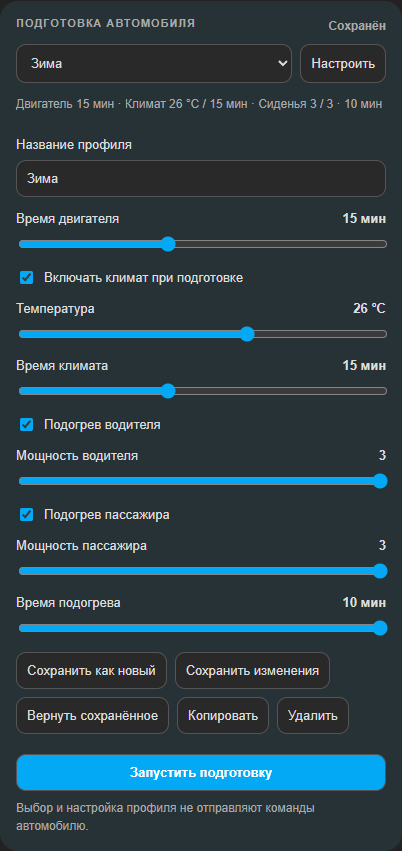
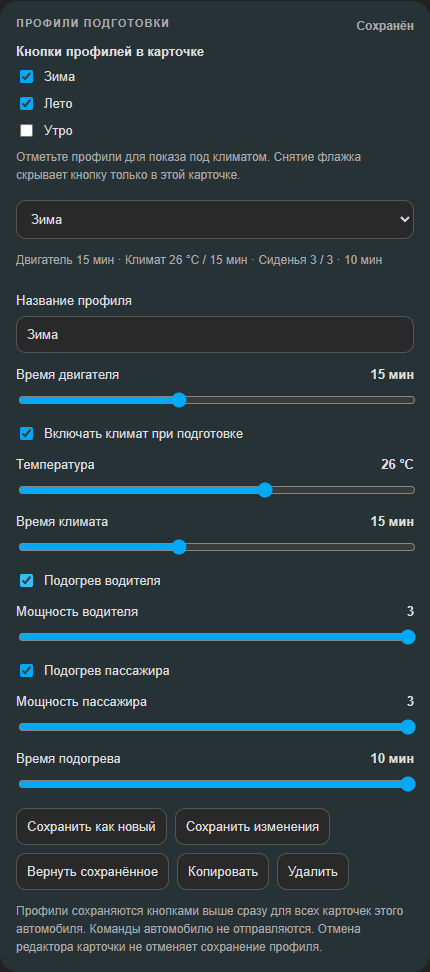
0.1.0-beta.4: profile buttons and streamlined card editor

diff --git a/custom_components/gwm_jolion/frontend/gwm-jolion-remote-card.js b/custom_components/gwm_jolion/frontend/gwm-jolion-remote-card.js
@@ -4,7 +4,7 @@
  * See LICENSE.starline and THIRD_PARTY_NOTICES.md in this directory.
  */
 (() => {
-  const CARD_VERSION = "0.1.0-beta.3";
+  const CARD_VERSION = "0.1.0-beta.4";
[1 lines of base64/hex data omitted]
   const INTEGRATION = "gwm_jolion";
   const DEFAULT_CONTROLS = ["engine", "lock", "climate", "trunk", "refresh", "seat_heating"];

diff --git a/custom_components/gwm_jolion/frontend/gwm-jolion-card.js b/custom_components/gwm_jolion/frontend/gwm-jolion-card.js
@@ -1,6 +1,6 @@
-/* GWM Jolion Card v0.1.0-beta.3 */
+/* GWM Jolion Card v0.1.0-beta.4 */
 (() => {
-  const CARD_VERSION = "0.1.0-beta.3";
+  const CARD_VERSION = "0.1.0-beta.4";
   const INTEGRATION = "gwm_jolion";
 
   const SUFFIX = {
@@ -82,6 +82,7 @@
         this._engineRuntime = Math.min(30, Math.max(5, configuredRuntime));
       }
       this._resolvedKey = null;
+      this._settingsToken = null;
       if (this._hass) this._resolveEntities();
       this._render();
     }
@@ -431,7 +432,6 @@
         this._comfortStart = false;
         this._climateEnabled = true;
         this._selectedProfile = "";
-        this._profileEditor = false;
         this._profileNameDraft = null;
         this._comfortTemperature = undefined;
         this._comfortRuntime = undefined;
@@ -480,6 +480,11 @@
 
     _profiles() { return this._state("refresh")?.attributes?.preparation_profiles || []; }
 
+    _visibleProfiles() {
+      const ids = this._config.visible_profiles;
+      return this._profiles().filter(profile => !Array.isArray(ids) || ids.includes(profile.id));
+    }
+
     _profileSummary() {
       const d = this._profileDraft();
       const seat = key => this._featureEnabled(`seat_heat_${key}`) ? (d[`${key}_enabled`] ? d[key] : "выкл") : "нет";
@@ -502,13 +507,14 @@
       const d = this._profileDraft();
       const range = (key,label,min,max,unit="") => `<label class="profile-field"><span>${label}<b>${d[key]}${unit}</b></span><input aria-label="Профиль: ${label}" data-profile-field="${key}" type="range" min="${min}" max="${max}" step="1" value="${d[key]}"></label>`;
       const check = (key,label) => `<label class="profile-check"><input data-profile-field="${key}" type="checkbox" ${d[key] ? "checked" : ""}>${label}</label>`;
-      const busy = this._busy.has("profiles");
+      const busy = this._busy.has("profiles") || !this._entryId || this._resolving;
       return `<div class="section preparation">
-        <div class="section-title">Подготовка автомобиля <small data-profile-status></small></div>
+        <div class="section-title">${this._profileEditorHost ? "Профили подготовки" : "Подготовка автомобиля"} <small data-profile-status></small></div>
         <fieldset ${busy ? "disabled" : ""}>
-          <div class="profile-toolbar"><select aria-label="Профиль подготовки" id="profile-select"><option value="">Текущие настройки</option>${profiles.map(p => `<option value="${this._escape(p.id)}" ${p.id === this._selectedProfile ? "selected" : ""}>${this._escape(p.name)}</option>`).join("")}</select><button type="button" id="profile-configure" aria-expanded="${!!this._profileEditor}">Настроить</button></div>
+          ${this._profileEditorHost ? `<div class="profile-visibility"><b>Кнопки профилей в карточке</b>${profiles.map(p => `<label class="profile-check"><input type="checkbox" data-profile-visible="${this._escape(p.id)}" ${this._visibleProfiles().some(visible => visible.id === p.id) ? "checked" : ""}>${this._escape(p.name)}</label>`).join("")}<small>Отметьте профили для показа под климатом. Снятие флажка скрывает кнопку только в этой карточке.</small></div>
+          <div class="profile-toolbar"><select aria-label="Профиль подготовки" id="profile-select"><option value="">Текущие настройки</option>${profiles.map(p => `<option value="${this._escape(p.id)}" ${p.id === this._selectedProfile ? "selected" : ""}>${this._escape(p.name)}</option>`).join("")}</select></div>` : `<div class="profile-choices" role="group" aria-label="Профили подготовки">${this._visibleProfiles().map(p => `<button type="button" data-profile-choice="${this._escape(p.id)}" aria-pressed="${p.id === this._selectedProfile}" class="profile-choice ${p.id === this._selectedProfile ? "selected" : ""}">${this._escape(p.name)}</button>`).join("")}</div>`}
           <p data-profile-summary></p>
-          ${this._profileEditor ? `<div class="profile-editor">
+          ${this._profileEditorHost ? `<div class="profile-editor">
             <label class="profile-field">Название профиля<input id="profile-name" maxlength="40" value="${this._escape(this._profileNameDraft ?? selected?.name ?? "")}" placeholder="Например, Зима"></label>
             ${range("engine_time","Время двигателя",5,30," мин")}
             ${check("climate_enabled","Включать климат при подготовке")}
@@ -519,8 +525,8 @@
             ${selected ? `<button type="button" data-profile-operation="update">Сохранить изменения</button><button type="button" data-profile-operation="select">Вернуть сохранённое</button><button type="button" data-profile-operation="copy" ${profiles.length >= 20 ? "disabled" : ""}>Копировать</button><button type="button" data-profile-operation="delete">Удалить</button>` : ""}</div>
           </div>` : ""}
         </fieldset>
-        <button type="button" id="preparation-start" ${!this._entryId || this._busy.size || this._remoteCommandInProgress() || this._isUnavailable("engine") || this._isOn("engine") ? "disabled" : ""}>${this._busy.has("preparation") ? "Подготовка…" : "Запустить подготовку"}</button>
-        <small>Выбор и настройка профиля не отправляют команды автомобилю.</small>
+        ${this._profileEditorHost ? "" : `<button type="button" id="preparation-start" ${!this._entryId || this._busy.size || this._remoteCommandInProgress() || this._isUnavailable("engine") || this._isOn("engine") ? "disabled" : ""}>${this._busy.has("preparation") ? "Подготовка…" : "Запустить подготовку"}</button>`}
+        <small>${this._profileEditorHost ? "Профили сохраняются кнопками выше сразу для всех карточек этого автомобиля. Команды автомобилю не отправляются. Отмена редактора карточки не отменяет сохранение профиля." : "Редактирование профилей — в настройках карточки."}</small>
       </div>`;
     }
 
@@ -933,6 +939,12 @@
           .profile-field input { width:100%; min-width:0; }
           .profile-check { display:flex; align-items:center; gap:8px; font-size:13px; }
           .profile-buttons { display:flex; flex-wrap:wrap; gap:8px; }
+          .profile-choices { display:flex; flex-wrap:wrap; gap:8px; }
+          .preparation .profile-choice { flex:1 1 auto; min-width:72px; max-width:100%; overflow-wrap:anywhere; transition:background-color .15s, border-color .15s; }
+          .preparation .profile-choice.selected { border-color:var(--primary-color,#03a9f4); background:color-mix(in srgb,var(--primary-color,#03a9f4) 22%,var(--card-background-color,#303539)); box-shadow:inset 0 0 0 1px var(--primary-color,#03a9f4); font-weight:700; }
+          .profile-visibility { display:grid; gap:8px; padding-bottom:16px; font-size:13px; }
+          .profile-choice:focus-visible { outline:2px solid var(--primary-color,#03a9f4); outline-offset:3px; }
+          @media (prefers-reduced-motion:reduce) { .preparation .profile-choice { transition:none; } }
           #preparation-start { display:block; width:100%; margin:8px 0; background:var(--primary-color,#03a9f4); color:var(--text-primary-color,#fff); font-weight:600; }
           @media (max-width:600px) {
             .wrap { padding:14px; }
@@ -946,7 +958,7 @@
           }
         </style>
 
-        <ha-card>
+        ${this._profileEditorHost ? this._profilePanel() : `<ha-card>
           <div class="wrap">
             <div class="header">
               <div class="title">
@@ -983,7 +995,6 @@
                 : ""
             }
 
-            ${this._profilePanel()}
             <div class="section">
               <div class="section-title">Управление</div>
               <div class="controls">
@@ -1127,6 +1138,7 @@
               </div>
             </div>
 
+            ${this._profilePanel()}
             <div class="section">
               <div class="section-title">Шины</div>
               <div class="tires">
@@ -1163,7 +1175,7 @@
               </div>
             </div>
           </div>
-        </ha-card>`;
+        </ha-card>`}`;
 
       this._bindActions();
     }
@@ -1200,7 +1212,12 @@
     _bindActions() {
       this._updateProfileSummary();
       this.shadowRoot.getElementById("profile-select")?.addEventListener("change", event => this._manageProfile("select",event.target.value));
-      this.shadowRoot.getElementById("profile-configure")?.addEventListener("click", () => {this._profileEditor = !this._profileEditor; this._render();});
+      this.shadowRoot.querySelectorAll("[data-profile-choice]").forEach(button => button.addEventListener("click", () => this._manageProfile("select",button.dataset.profileChoice)));
+      this.shadowRoot.querySelectorAll("[data-profile-visible]").forEach(input => input.addEventListener("change", () => {
+        const visible = new Set(this._visibleProfiles().map(profile => profile.id));
+        if (input.checked) visible.add(input.dataset.profileVisible); else visible.delete(input.dataset.profileVisible);
+        this.dispatchEvent(new CustomEvent("profile-visibility-changed", {detail:{profiles:[...visible]},bubbles:true,composed:true}));
+      }));
       this.shadowRoot.getElementById("profile-name")?.addEventListener("input", event => {this._profileNameDraft = event.target.value; this._updateProfileSummary();});
       this.shadowRoot.querySelectorAll("[data-profile-operation]").forEach(button => button.addEventListener("click", () => this._manageProfile(button.dataset.profileOperation)));
       this.shadowRoot.querySelectorAll("[data-profile-field]").forEach(input => {

diff --git a/custom_components/gwm_jolion/frontend/gwm-jolion-card-editor.js b/custom_components/gwm_jolion/frontend/gwm-jolion-card-editor.js
@@ -1,6 +1,6 @@
-/* GWM Jolion primary card visual editor v0.1.0-alpha.17 */
+/* GWM Jolion primary card visual editor v0.1.0-beta.4 */
 (() => {
-  const CARD_VERSION = "0.1.0-alpha.17";
+  const CARD_VERSION = "0.1.0-beta.4";
 
   const CONTROL_OPTIONS = [
     ["engine", "Двигатель"],
@@ -9,11 +9,6 @@
     ["windows", "Окна"],
     ["climate", "Климат / кондиционер"],
     ["refresh", "Обновить данные"],
-    ["steering", "Обогрев руля"],
-    ["rear_defrost", "Обогрев заднего стекла"],
-    ["front_defrost", "Передний defrost / обдув лобового"],
-    ["sunroof", "Панорамная крыша / люк"],
-    ["sunshade", "Шторка панорамной крыши"],
   ];
 
   const INFO_OPTIONS = [
@@ -32,7 +27,6 @@
     ["last_update", "Время последнего обновления"],
     ["seat_driver", "Подогрев сиденья водителя"],
     ["seat_passenger", "Подогрев сиденья пассажира"],
-    ["windscreen_heat", "Электрообогрев лобового — статус"],
   ];
 
   const DETAIL_OPTIONS = [
@@ -45,18 +39,9 @@
   const DEFAULT_INFO = INFO_OPTIONS.map(([value]) => value);
   const DEFAULT_DETAILS = DETAIL_OPTIONS.map(([value]) => value);
 
-  const FEATURE_BY_CONTROL = {
-    steering: "steering_wheel_heat",
-    rear_defrost: "rear_defrost",
-    front_defrost: "front_defrost",
-    sunroof: "sunroof",
-    sunshade: "sunshade",
-  };
-
   const FEATURE_BY_INFO = {
     seat_driver: "seat_heat_driver",
     seat_passenger: "seat_heat_passenger",
-    windscreen_heat: "front_windscreen_heat",
   };
 
   const escapeHtml = (value) => String(value ?? "")
@@ -76,6 +61,7 @@
 
     set hass(hass) {
       this._hass = hass;
+      this._syncProfileEditor();
     }
 
     setConfig(config) {
@@ -87,6 +73,11 @@
         engine_runtime: 15,
         ...config,
       };
+      for (const [key, supported] of [["controls", DEFAULT_CONTROLS], ["info", DEFAULT_INFO], ["details", DEFAULT_DETAILS]]) {
+        if (Array.isArray(this._config[key])) {
+          this._config[key] = this._config[key].filter(value => supported.includes(value));
+        }
+      }
       this._render();
     }
 
@@ -101,10 +92,42 @@
       return entity?.attributes || {};
     }
 
+    _syncProfileEditor() {
+      const mount = this.shadowRoot.querySelector("#preparation-profiles");
+      if (!mount) return;
+      if (!customElements.get("gwm-jolion-card")) {
+        if (!this._waitingForCard) {
+          this._waitingForCard = true;
+          customElements.whenDefined("gwm-jolion-card").then(() => {
+            this._waitingForCard = false;
+            this._syncProfileEditor();
+          });
+        }
+        return;
+      }
+      if (!this._profileEditor) {
+        this._profileEditor = document.createElement("gwm-jolion-card");
+        // Share vehicle resolution and profile storage with the dashboard card.
+        // This instance renders only profile settings, without vehicle controls.
+        this._profileEditor._profileEditorHost = true;
+        this._profileEditor.addEventListener("profile-visibility-changed", event => {
+          event.stopPropagation();
+          this._emit({...this._config, visible_profiles:event.detail.profiles});
+        });
+      }
+      const token = JSON.stringify(this._config);
+      if (token !== this._profileConfigToken) {
+        this._profileConfigToken = token;
+        this._profileEditor.setConfig(this._config);
+      }
+      if (this._hass) this._profileEditor.hass = this._hass;
+      if (this._profileEditor.parentElement !== mount) mount.append(this._profileEditor);
+    }
+
     _available(option, kind) {
       const flags = this._featureFlags();
       const capability = kind === "controls"
-        ? FEATURE_BY_CONTROL[option]
+        ? undefined
         : FEATURE_BY_INFO[option];
       if (!capability || !(capability in flags)) return true;
       return flags[capability] !== false;
@@ -191,11 +214,14 @@
             <input id="confirm-controls" type="checkbox" ${this._config.confirm_controls !== false ? "checked" : ""}>
             <span>Подтверждать удалённые команды</span>
           </label>
+          <div id="preparation-profiles"></div>
           ${this._renderGroup("Кнопки управления", "controls", CONTROL_OPTIONS)}
           ${this._renderGroup("Датчики и информация", "info", INFO_OPTIONS)}
           ${this._renderGroup("Дополнительные панели", "details", DETAIL_OPTIONS)}
           <div class="note">Настройки комплектации в GWM Jolion → Настроить имеют приоритет. Отсутствующее оборудование нельзя принудительно показать карточкой. Существующие карточки без этих параметров продолжают показывать полный прежний набор элементов.</div>
         </div>`;
+
+      this._syncProfileEditor();
 
       this.shadowRoot.querySelectorAll("[data-list]").forEach((input) => {
         input.addEventListener("change", () => this._toggleList(input.dataset.list, input.dataset.value, input.checked));

diff --git a/custom_components/gwm_jolion/frontend/gwm-jolion-alpha20.js b/custom_components/gwm_jolion/frontend/gwm-jolion-alpha20.js
@@ -1,6 +1,6 @@
 /* GWM Jolion alpha.20 entity-surface compatibility layer */
 (() => {
-  const VERSION = "0.1.0-beta.3";
+  const VERSION = "0.1.0-beta.4";
   const SAFE_CAPABILITIES = new Set([
     "seat_heat_driver",
     "seat_heat_passenger",

diff --git a/custom_components/gwm_jolion/__init__.py b/custom_components/gwm_jolion/__init__.py
@@ -42,22 +42,22 @@ FRONTEND_ASSETS = (
     (
         FRONTEND_DIR / "gwm-jolion-card-editor.js",
         "/gwm-jolion/gwm-jolion-card-editor.js",
-        "/gwm-jolion/gwm-jolion-card-editor.js?v=0.1.0-beta.3",
+        "/gwm-jolion/gwm-jolion-card-editor.js?v=0.1.0-beta.4",
     ),
     (
         FRONTEND_DIR / "gwm-jolion-card.js",
         "/gwm-jolion/gwm-jolion-card.js",
-        "/gwm-jolion/gwm-jolion-card.js?v=0.1.0-beta.3",
+        "/gwm-jolion/gwm-jolion-card.js?v=0.1.0-beta.4",
     ),
     (
         FRONTEND_DIR / "gwm-jolion-remote-card.js",
         "/gwm-jolion/gwm-jolion-remote-card.js",
-        "/gwm-jolion/gwm-jolion-remote-card.js?v=0.1.0-beta.3",
+        "/gwm-jolion/gwm-jolion-remote-card.js?v=0.1.0-beta.4",
     ),
     (
         FRONTEND_DIR / "gwm-jolion-alpha20.js",
         "/gwm-jolion/gwm-jolion-alpha20.js",
-        "/gwm-jolion/gwm-jolion-alpha20.js?v=0.1.0-beta.3",
+        "/gwm-jolion/gwm-jolion-alpha20.js?v=0.1.0-beta.4",
     ),
 )
 DATA_FRONTEND_REGISTERED = "_frontend_registered"

diff --git a/tests/test_entity_surface_alpha20.py b/tests/test_entity_surface_alpha20.py
@@ -104,11 +104,11 @@ def test_alpha20_frontend_uses_clean_entity_attributes() -> None:
     patch = (ROOT / "custom_components/gwm_jolion/frontend/gwm-jolion-alpha20.js").read_text(encoding="utf-8")
     init_source = (ROOT / "custom_components/gwm_jolion/__init__.py").read_text(encoding="utf-8")
 
-    assert 'const VERSION = "0.1.0-beta.3"' in patch
+    assert 'const VERSION = "0.1.0-beta.4"' in patch
     assert 'signal_level_raw' in patch
     assert 'feature_flags' in patch
     assert 'last_successful_update' in patch
     assert 'if (id === "windows") return ""' not in patch
     assert 'entities.windowFl = oldFr' in patch
     assert 'entities.windowFr = oldFl' in patch
-    assert 'gwm-jolion-alpha20.js?v=0.1.0-beta.3' in init_source
+    assert 'gwm-jolion-alpha20.js?v=0.1.0-beta.4' in init_source

diff --git a/tests/test_protocol_field_results_alpha19_7.py b/tests/test_protocol_field_results_alpha19_7.py
@@ -36,7 +36,7 @@ def test_high_beam_code_remains_candidate_not_confirmed() -> None:
 
 def test_const_keeps_raw_window_protocol_but_exposes_clean_binary_names() -> None:
     const = _load("gwm_const_alpha20", "custom_components/gwm_jolion/const.py")
-    assert const.VERSION == "0.1.0-beta.3"
+    assert const.VERSION == "0.1.0-beta.4"
     expected_raw = {
         "2210001": "Окно переднее левое (raw)",
         "2210002": "Окно переднее правое (raw)",

diff --git a/custom_components/gwm_jolion/const.py b/custom_components/gwm_jolion/const.py
@@ -6,7 +6,7 @@ from dataclasses import dataclass
 from enum import Enum
 
 DOMAIN = "gwm_jolion"
-VERSION = "0.1.0-beta.3"
+VERSION = "0.1.0-beta.4"
 PLATFORMS = ["button", "sensor", "binary_sensor", "device_tracker", "lock", "climate", "number"]
 
 CONF_PHONE = "phone"

diff --git a/README.md b/README.md
@@ -4,7 +4,7 @@
 
 Неофициальная интеграция для **Haval Jolion с российским GWM Cloud**: состояние автомобиля, удалённое управление и две встроенные карточки. Разрабатывается на Haval Jolion 2022 Premium.
 
-Версия **0.1.0-beta.3** · [Изменения](CHANGELOG.md) · [Планы](ROADMAP.md)
+Версия **0.1.0-beta.4** · [Изменения](CHANGELOG.md) · [Планы](ROADMAP.md)
 
 ## Возможности
 
@@ -31,12 +31,14 @@ type: custom:gwm-jolion-card
 
 В разделе климата выберите уровень каждого сиденья и таймер, затем нажмите **«Применить»**. Мощность 1–3 и таймер задаются ползунками. Переключатель рядом с названием выбирает, включить или выключить сиденье при применении. Показания автомобиля отображаются рядом с настройками.
 
-В блоке **«Подготовка автомобиля»** выберите профиль и нажмите **«Запустить подготовку»**. Доступны редактируемые шаблоны «Зима», «Лето» и «Только водитель».
+Под блоком **«Климат»** нажмите кнопку нужного профиля, затем **«Запустить подготовку»**. Выбранная кнопка подсвечивается. Доступны редактируемые шаблоны «Зима», «Лето» и «Только водитель»; свои профили можно назвать, например, «Свой 1» и «Свой 2».
 
-- **«Настроить»** открывает название, температуру, время двигателя и климата, выбор и мощность сидений, таймер подогрева.
+- Откройте **редактирование панели → настройки карточки → «Профили подготовки»**. Здесь задаются название, температура, время двигателя и климата, выбор и мощность сидений, таймер подогрева. В списке **«Кнопки профилей в карточке»** отметьте нужные профили: снятие флажка скрывает кнопку только в этой карточке, сохраняя сам профиль. По умолчанию показаны все профили; после настройки списка новые кнопки добавляются флажками.
 - **«Сохранить как новый»** создаёт профиль из текущих настроек. **«Сохранить изменения»** обновляет выбранный профиль, включая название. Доступны копирование и удаление; до 20 профилей на автомобиль.
 - После изменения параметров появляется отметка **«Изменён»**. **«Вернуть сохранённое»** восстанавливает профиль. Без явного сохранения его параметры не перезаписываются.
 - Выбор и редактирование не отправляют команды автомобилю. Создание и копирование выбирают новый профиль; копируется сохранённая версия. Настройки и профили доступны на всех устройствах и сохраняются после перезапуска Home Assistant.
+
+Кнопки сохранения профиля применяют изменения сразу для всех карточек автомобиля. Общая кнопка «Отмена» в редакторе карточки не отменяет уже сохранённый профиль.
 
 <details>
 <summary>Пример настройки профиля</summary>

diff --git a/CHANGELOG.md b/CHANGELOG.md
@@ -1,5 +1,16 @@
 # Changelog
 
+## 0.1.0-beta.4
+
+- Из визуальных настроек основной карточки удалены недоступные функции: обогрев руля и заднего стекла, обдув лобового, люк, шторка и статус электрообогрева лобового. Устаревшие пункты исключаются при редактировании старой конфигурации.
+- Профили отображаются кнопками под блоком климата; выбранный профиль подсвечивается. Список видимых кнопок настраивается флажками в графическом редакторе отдельно для каждой карточки.
+- Управление профилями подготовки перенесено в визуальные настройки `gwm-jolion-card`. В основной карточке остаются выбор профиля, описание параметров и запуск подготовки.
+- В редакторе профилей отсутствуют кнопки команд автомобилю; сохранение профилей по-прежнему общее для всех карточек выбранного автомобиля.
+- Сохранённые параметры восстанавливаются при изменении конфигурации карточки, включая её названия и оформления.
+- Обновлены README, roadmap, изображение редактора профилей и версии ресурсов карточек. Проверены выбор и подсветка профиля, настройка видимости кнопок, старые конфигурации и сохранение параметров при перерисовке редактора.
+
+После обновления перезапустите Home Assistant и обновите страницу панели. Существующие профили и настройки сохраняются.
+
 ## 0.1.0-beta.3
 
 - В `gwm-jolion-card` добавлены профили подготовки автомобиля и отдельная кнопка «Запустить подготовку» с кратким описанием выбранных параметров.

diff --git a/ROADMAP.md b/ROADMAP.md
@@ -1,9 +1,11 @@
 # План развития GWM Jolion
 
-Актуально для **0.1.0-beta.3**. Реализация функции и проверка её физической работы — отдельные этапы.
+Актуально для **0.1.0-beta.4**. Реализация функции и проверка её физической работы — отдельные этапы.
 
 ## Реализовано
 
+- Кнопки профилей под климатом с подсветкой выбора; настройка видимости отдельно для каждой карточки.
+- Управление профилями в графическом редакторе карточки. Удалены переключатели недоступных функций из редактора, в том числе в старых конфигурациях.
 - Профили подготовки автомобиля: редактируемые шаблоны, создание, переименование, копирование и удаление, отметка изменений и возврат сохранённых параметров.
 - Выбор профиля без команд автомобилю, отдельный запуск и возможность пропустить климат. Профили хранятся отдельно для каждого автомобиля и доступны на разных устройствах.
 - Сохранение настроек основной карточки в Home Assistant отдельно для каждого автомобиля и восстановление на разных устройствах без отправки команд.
